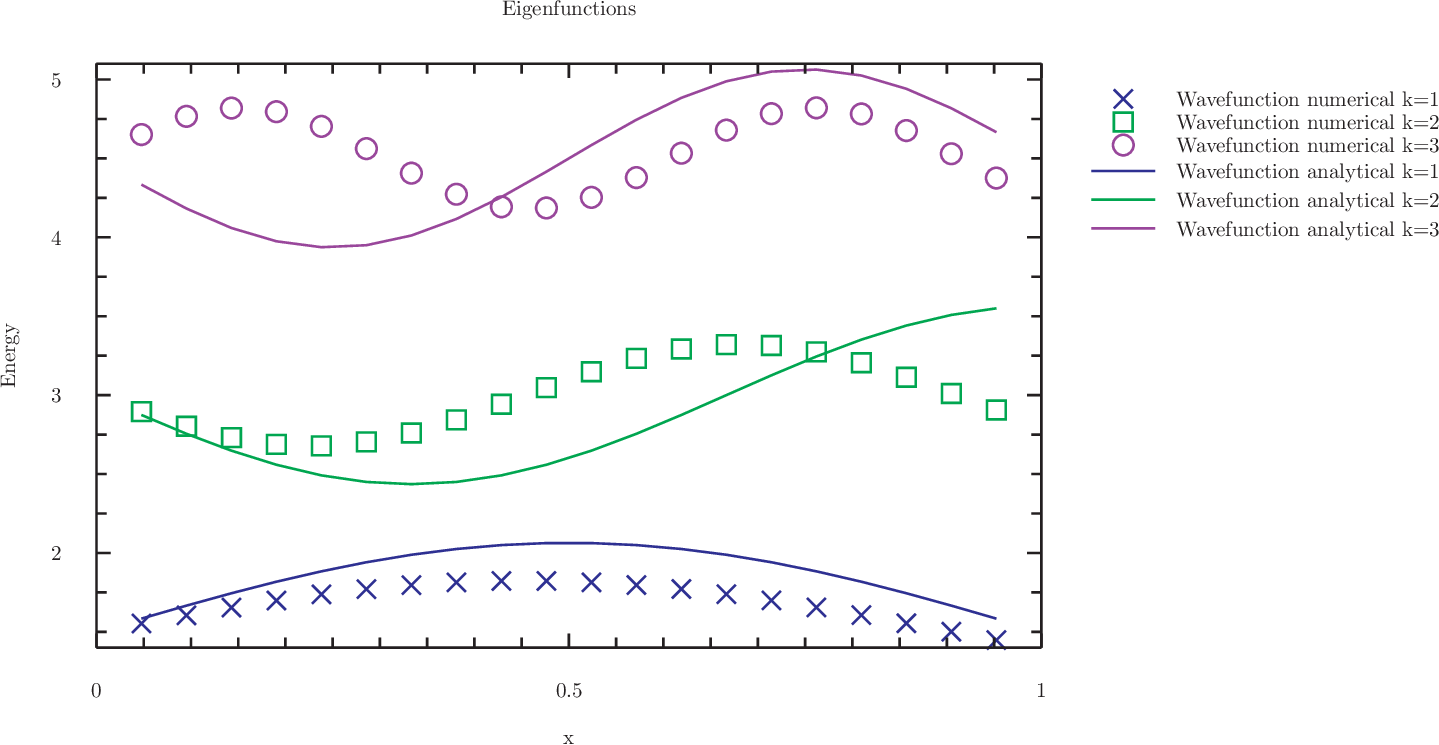
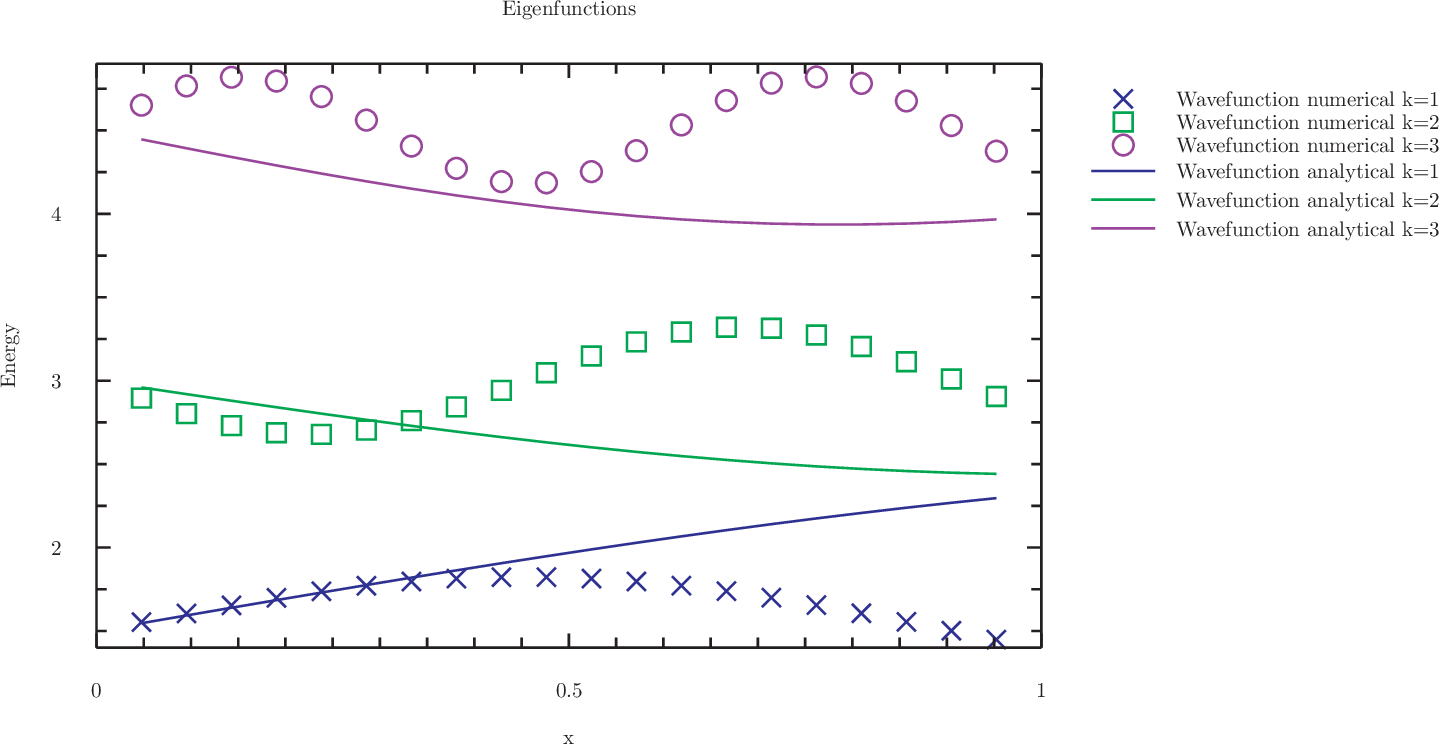
Initial commit

diff --git a/homework/MatrixDiagonalization/main.c b/homework/MatrixDiagonalization/main.c
@@ -159,7 +159,7 @@ printf("\n\n");
 printf("#index1: numerical vs analytical(Til plotning)\n");
  	for(int i=0;i<N;i++){
 	double k=(i+1.0)/(N+1);
-	printf("%6g %6g %6g %6g %6g %6g %6g %6g %6g\n",k, gsl_matrix_get(V_h,i,0), gsl_matrix_get(V_h,i,1)+1.5, gsl_matrix_get(V_h,i,2)+3,gsl_matrix_get(V_h,i,3)+4.5, sqrt(1/M_PI)*sin(M_PI*k/2),sqrt(1/M_PI)*sin(M_PI*2*k/2)+1.5,-sqrt(1/M_PI)*sin(M_PI*3*k/2)+3,-sqrt(1/M_PI)*sin(M_PI*4*k/2)+4.5);
+	printf("%6g %6g %6g %6g %6g %6g %6g %6g %6g\n",k, gsl_matrix_get(V_h,i,0), gsl_matrix_get(V_h,i,1)+1.5, gsl_matrix_get(V_h,i,2)+3,gsl_matrix_get(V_h,i,3)+4.5, sqrt(1/M_PI)*sin(k/2),sqrt(3/M_PI)*sin(2*k/2)+1.5,-sqrt(1/M_PI)*sin(3*k/2)+3,-sqrt(1/M_PI)*sin(4*k/2)+4.5);
 	}
 
 
